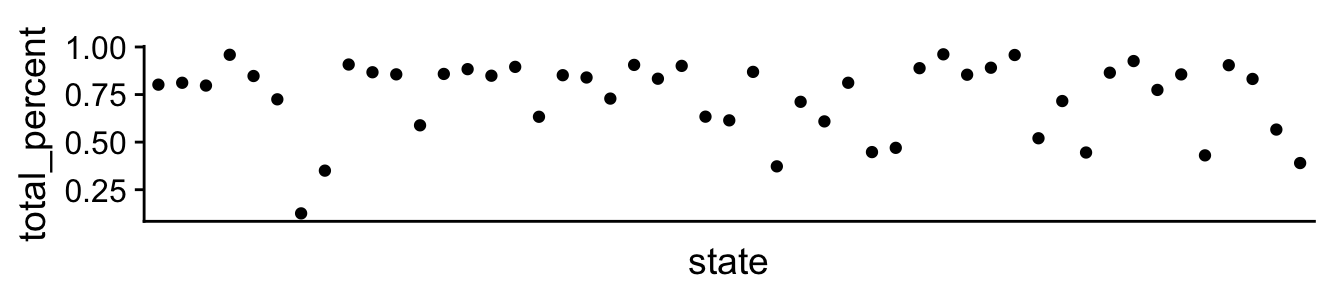
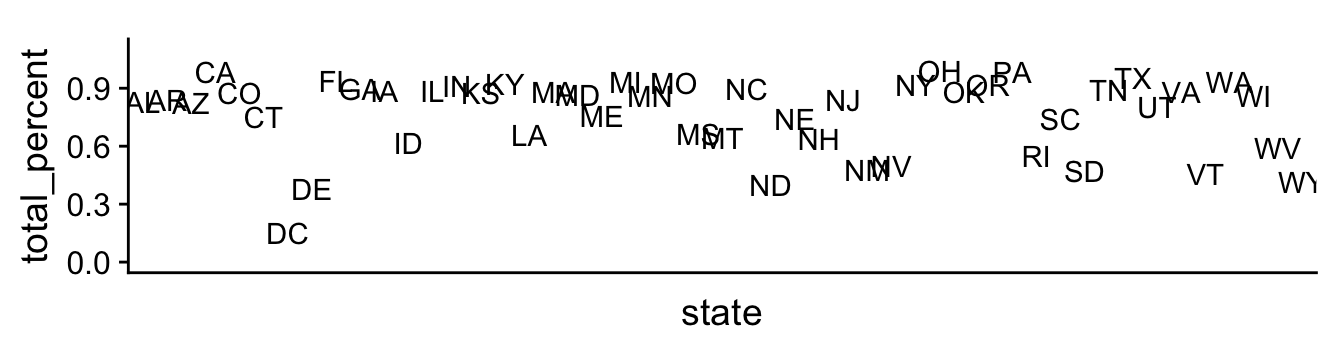
new graph test

diff --git a/content/blog/2017-11-19-multilevel-mrp-tidybayes-brms-stan.html b/content/blog/2017-11-19-multilevel-mrp-tidybayes-brms-stan.html
@@ -45,7 +45,6 @@ library(brms)
 library(rstan)
 library(albersusa)
 library(cowplot)
-library(forcats)
 
 rstan_options(auto_write=TRUE)
 options(mc.cores=parallel::detectCores())</code></pre>
@@ -150,10 +149,10 @@ plot_grid(disag.point, disag.scat)</code></pre>
   summarise(total_percent = sum(cpercent.state, na.rm=TRUE)) %&gt;%
   filter(state != &quot;&quot;) %&gt;%
   ggplot(aes(x = state, y = total_percent)) +
-  geom_point() +
+  geom_text(aes(label=state), hjust=0.5, vjust=0.25) +
   theme(axis.text.x=element_blank(),
         axis.ticks.x=element_blank()) + 
-  coord_fixed(ratio=8)</code></pre>
+  coord_fixed(ratio=8) + ylim(c(0,1.1))</code></pre>
 <p><img src="/blog/2017-11-19-multilevel-mrp-tidybayes-brms-stan_files/figure-html/unnamed-chunk-11-1.png" width="672" /></p>
 <p>The lack of data for some voter groups makes poststratifying on the state level impossible and/or meaningless. This scenario actually motivates multilevel regression. As we’ll see in the next section, the multilevel model assumes similar demographic groups tend to vote the same. For example, suppose no black women were polled in South Dakota. Instead of producing skewed estimates, we can estimate the proportion of support black women have for gay marriage in South Dakota by level of support (and variation of support) black women have in all other states.</p>
 </div>
